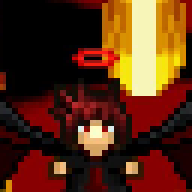
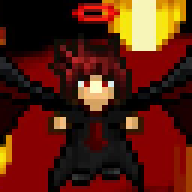
Avatare: Quisto/Orphy zentriert, Grisgar höher, Triceras entfernt
Claude-Session: https://claude.ai/code/session_01CPk8q9yZGGhwjMyZNQHCDh

diff --git a/scripts/avatar-entwuerfe/picks.py b/scripts/avatar-entwuerfe/picks.py
@@ -7,7 +7,7 @@ PICKS = [
     ("BalladHarpy",    "Ballad Harpyformer",                     70, 52),
     ("Blackstache",    "Blackstache, Scourge of the Pixel Seas", 76, 52),
     ("Mellvy",         "Bonded Companion Mellvy",                76, 45),
-    ("Orphy",          "Bonded Companion Orphy",                 38, 50),
+    ("Orphy",          "Bonded Companion Orphy",                 52, 50),
     ("Censpartan",     "Censpartan War Counselor",               84, 52),
     ("Crum",           "Crum, the Class Pet",                    76, 50),
     ("Molinda",        "Cute Angel Molinda",                     76, 50),
@@ -19,8 +19,7 @@ PICKS = [
     ("ForestWarden",   "Disgruntled Forest Warden",              76, 55),
     ("JaguarWarrior",  "Ferocious Jaguar Warrior",               76, 55),
     ("ExplodingSkull", "Giant Exploding Skull",                  76, 45),
-    ("Triceras",       "Gigantisaur Triceras",                   76, 55),
-    ("Grisgar",        "Grisgar, Emissary of the Demon Lord",    76, 45),
+    ("Grisgar",        "Grisgar, Emissary of the Demon Lord",    76, 60),
     ("Harpthenean",    "Harpthenean War Counselor",              76, 50),
     ("Hatusbal",       "Hatusbal, the Leader of Tusca",          76, 50),
     ("Hipdall",        "Hipdall, Protector of Coolness",         76, 52),
@@ -46,5 +45,5 @@ PICKS = [
     ("CircusClown",    "Fun-Fun Circus Clown",                   76, 50),
     ("Asriel",         "Asriel, the Sapling Sacrificer",         76, 50),
     ("Freshya",        "Freshya, Beauty of Coolness",            76, 50),
-    ("DonQuisto",      "Don Quisto, the Gold Seeker",            45, 55),
+    ("DonQuisto",      "Don Quisto, the Gold Seeker",            54, 55),
 ]
